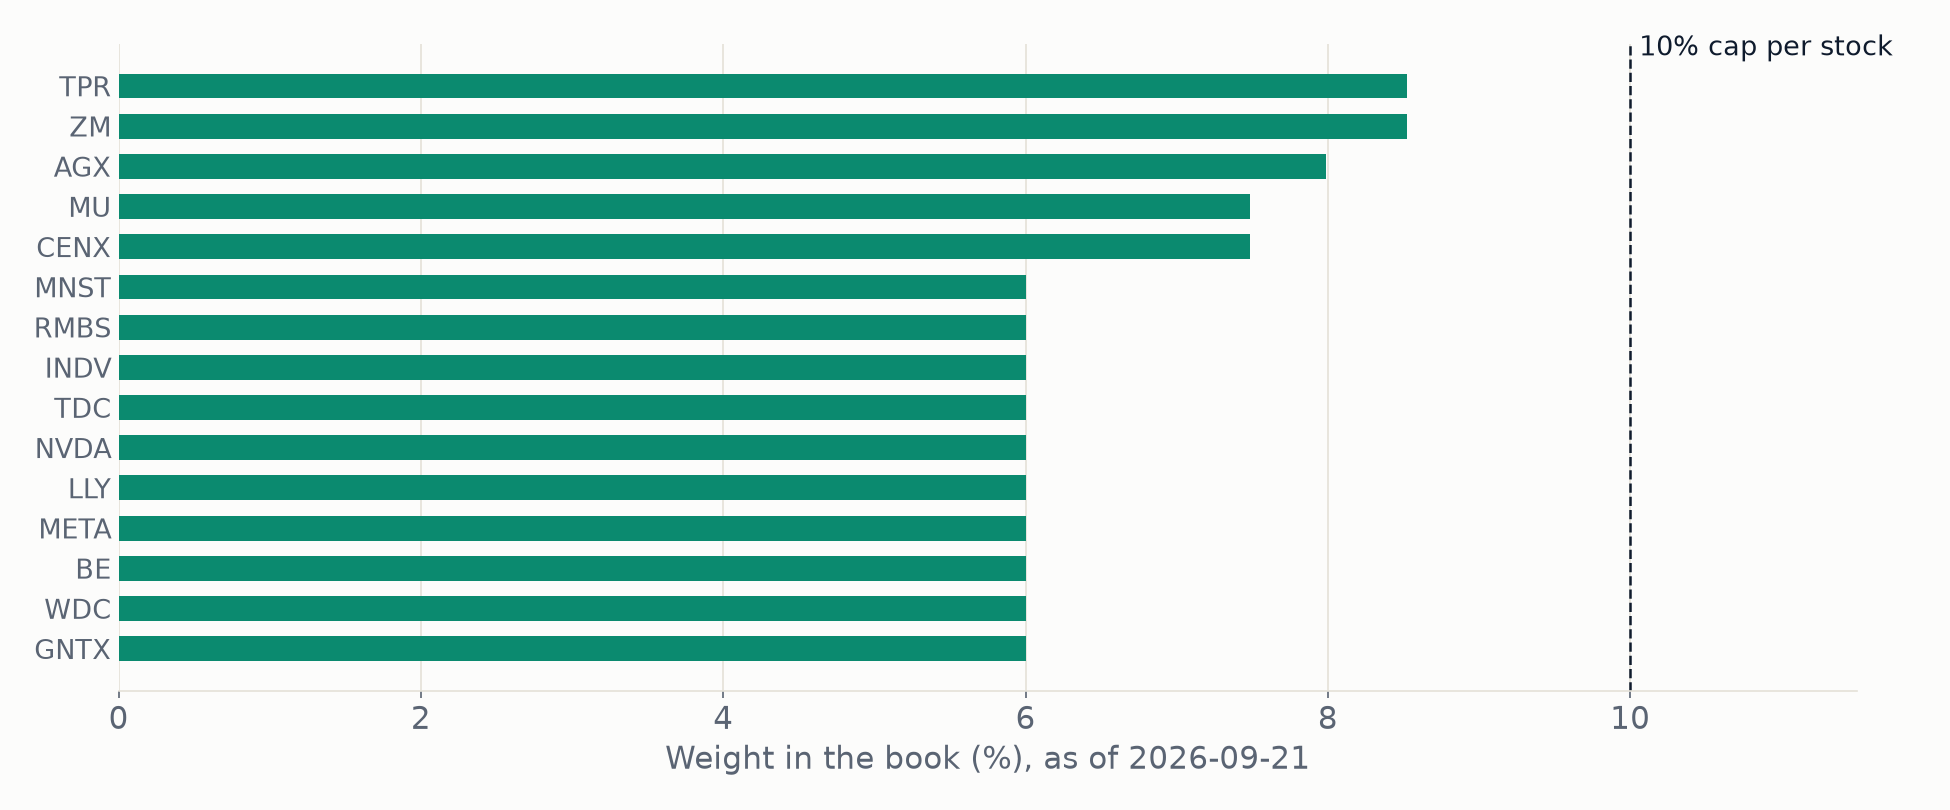
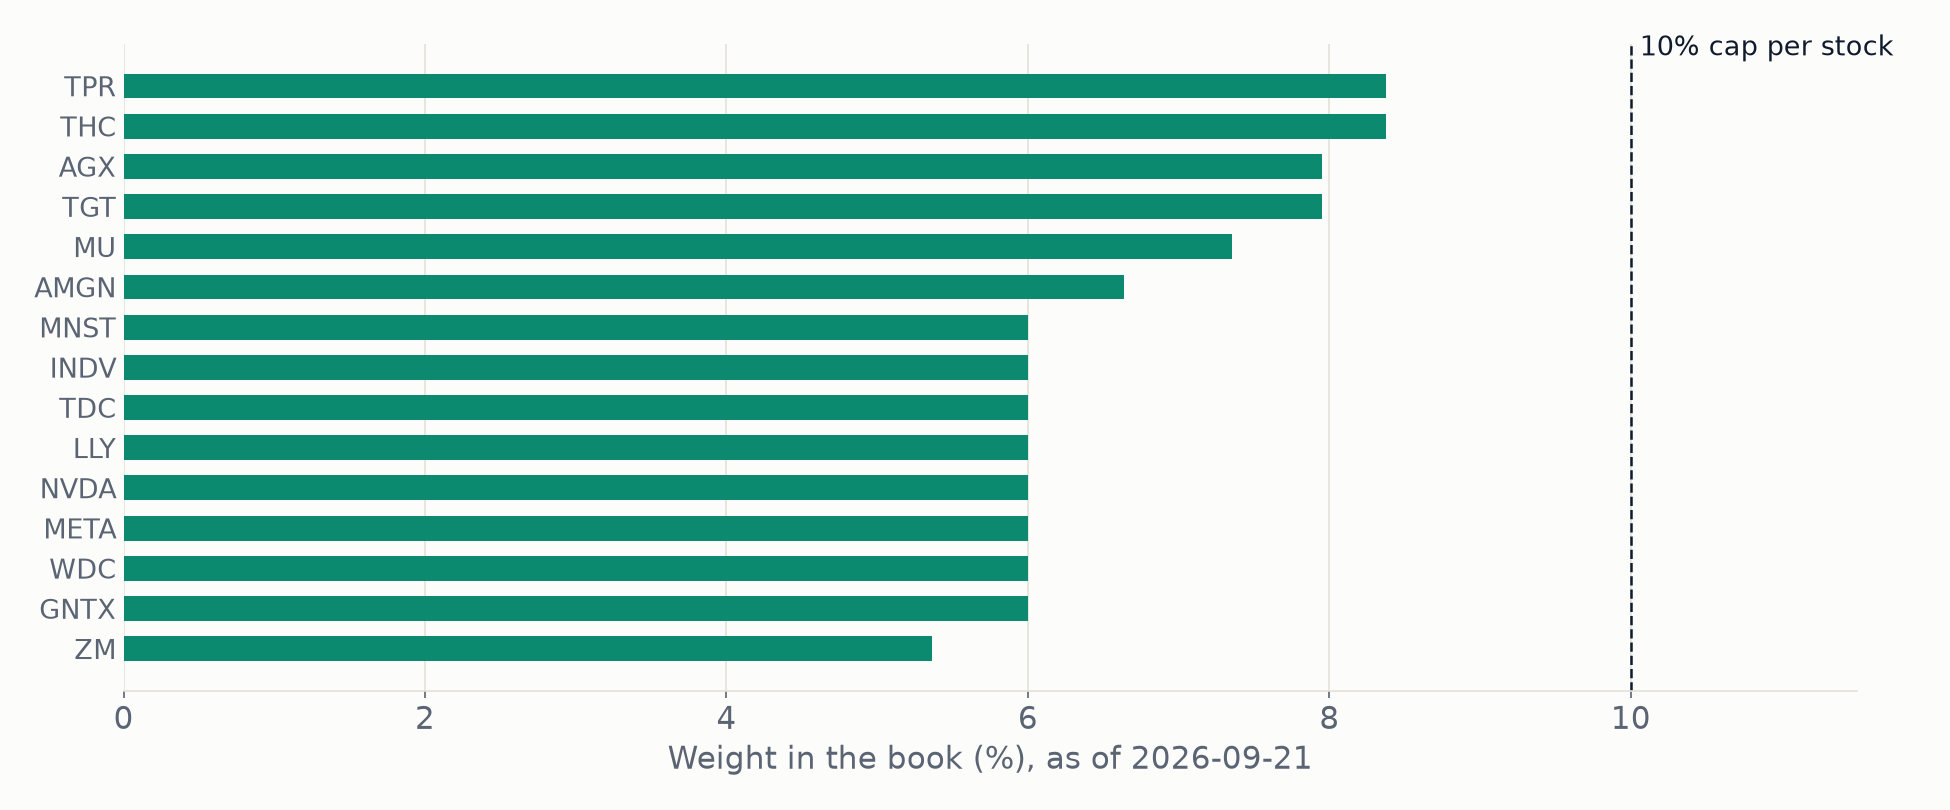
Live book rebuilt under v1.4 (beta cap); docs at v1.4 numbers (15.9% vs 13.0%)
Claude-Session: https://claude.ai/code/session_01LBK97fEdk1jFLcCJnPRrCz

diff --git a/docs/JUDGE_QA.md b/docs/JUDGE_QA.md
@@ -3,7 +3,7 @@
 One or two sentences each, for the Q&A after the pitch. Numbers come from `docs/AUDIT.md` (v1.3, weekly replay, costs included). Headline: Jan 2018 to the data cutoff (Aug 2026). Tests marked "development" ran on Jan 2018 to Feb 2026, before the six held-back months were opened.
 
 **One month is mostly luck. How is this skill?**
-We can't prove skill in one month and don't claim to. We claim a process: published signals, rules fixed before testing, and an eight-and-a-half-year weekly replay that beat the S&P and equal weight after costs (14.9% vs 13.0% and 12.1% a year), 16 of 20 random portfolios run under the same rules, and six held-back months we opened once (+19.7%). In any one month we beat the S&P in about half of past windows (49%). The edge is not statistically proven (alpha +2.5% a year, t = 0.6).
+We can't prove skill in one month and don't claim to. We claim a process: published signals, rules fixed before testing, and an eight-and-a-half-year weekly replay that beat the S&P and equal weight after costs (15.9% vs 13.0% and 12.1% a year for v1.4; 14.9% for v1.3 without the beta cap), 16 of 20 random portfolios run under the same rules, and six held-back months we opened once (+19.7%). In any one month we beat the S&P in about half of past windows (49%). The edge is not statistically proven (alpha +2.5% a year, t = 0.6).
 
 **Did you test it on data it never saw?**
 Yes. We built everything on Jan 2018 to Feb 2026 and kept the last six months untouched. Opened once at the end: +19.7%, Sharpe 1.83, worst drop 7.8%. Six months is short, so it's encouraging, not proof.
@@ -15,7 +15,7 @@ Every decision uses data through the prior close, filings count from the day aft
 About 100 independent months since 2018, and even simple signals can't be told from luck on them, so a flexible model would learn noise. Fixed rules are transparent and give the same answer on every replay.
 
 **What's your market exposure?**
-Beta about 1.0 over the whole backtest; the cash rule lowers it in stress. The book entering the judged month is hotter, about 1.65, because momentum pulled it into chip and memory names (about a quarter of the book). We state that rather than hide it.
+Beta about 1.0 over the whole backtest; the cash rule lowers it in stress. Momentum had pushed the book entering the judged month to about 1.65, so v1.4 caps book beta at 1.2 (now about 1.1). The cap passed its pre-registered rule (return within a point, lower volatility and drawdown) but was tested after the holdout, so its extra point of return is in-sample.
 
 **Why cash instead of puts?**
 SPY and its options aren't in our universe, and puts cost premium every month in a test scored mostly on return. Cash costs nothing and is an explicit line in every portfolio.

diff --git a/CLAUDE.md b/CLAUDE.md
@@ -8,7 +8,7 @@
 ## Adopted plan: v5 + replay fixes (plan text in `docs/nabla_plan_v5.pdf`)
 A regime-aware factor book: five point-in-time factors, rule-based stress and panic flags, a mean-variance optimizer with costs and an equal-weight anchor, entry/exit bands, rebalanced weekly. No options, no RL, no HMM. v5 was written before the replay format; the fixes below override it.
 
-**Shipped so far: v1.3** (`config/model.json`, groups in `config/clusters.json`): four factors (volatility premium weight 0 after the drop-one-factor test), equal-weight top 15 with bands and a 2-point no-trade band, 25% `CASHHOLDING` under the stress flag; panic rule tested and rejected; optimizer not built. Stock groups: consensus clusters refit each January on prior data. Backtest 2018 to Feb 2026 (development): 14.2%/yr vs 12.4% S&P, Sharpe 0.70, max drawdown 33%. Held-back six months (used once): +19.7%, Sharpe 1.83. Full window to the cutoff: 14.9% vs 13.0% S&P, Sharpe 0.73, max drawdown 34%. Results and decisions: `docs/AUDIT.md`; status and to-dos: `docs/HANDOFF.md`.
+**Shipped so far: v1.4** (v1.3 + book beta capped at 1.2: 15.9% vs 13.0% S&P to the cutoff, Sharpe 0.78, max drawdown 33%; chosen after the holdout, on its pre-registered risk rule) (`config/model.json`, groups in `config/clusters.json`): four factors (volatility premium weight 0 after the drop-one-factor test), equal-weight top 15 with bands and a 2-point no-trade band, 25% `CASHHOLDING` under the stress flag; panic rule tested and rejected; optimizer not built. Stock groups: consensus clusters refit each January on prior data. Backtest 2018 to Feb 2026 (development): 14.2%/yr vs 12.4% S&P, Sharpe 0.70, max drawdown 33%. Held-back six months (used once): +19.7%, Sharpe 1.83. Full window to the cutoff: 14.9% vs 13.0% S&P, Sharpe 0.73, max drawdown 34%. Results and decisions: `docs/AUDIT.md`; status and to-dos: `docs/HANDOFF.md`.
 
 ### Organizer answers
 - Output is a **chronological series of target portfolios**, one complete record per decision, generated by the judges **replaying our frozen model through the holdout one step at a time** (proposed format, may still change). Example record fields: `schema_version`, `team_id`, `model_id`, `decision_id`, `information_cutoff` (e.g. 16:00 ET), `decision_time` (16:15), `execution_time` (next open 09:30), `action` ("rebalance"), `target_holdings` [{ticker, weight}]. The example satisfies a 20% per-name cap.

diff --git a/README.md b/README.md
@@ -19,9 +19,9 @@ average and 21-day volatility above its 80th percentile). The volatility premium
 drop-one-factor test; the panic momentum rule was tested and rejected. No optimizer, no
 options.
 
-Backtest, weekly, Jan 2018 to the data cutoff (Aug 2026), costs included: **14.9% a year** vs 13.0%
-for the S&P 500 and 12.1% for the equal-weight liquid universe; Sharpe 0.73 (S&P 0.73); max drawdown
-34% (S&P 34%). The model was built on Jan 2018 to Feb 2026 (14.2% vs 12.4%); the six months after were
+v1.4 adds a cap of 1.2 on the book's market beta. Backtest, weekly, Jan 2018 to the data cutoff (Aug 2026), costs
+included: **15.9% a year** vs 13.0% for the S&P 500 and 12.1% for the equal-weight liquid universe; Sharpe 0.78
+(S&P 0.73); max drawdown 33% (S&P 34%). v1.3 without the cap: 14.9%, Sharpe 0.73. The model was built on Jan 2018 to Feb 2026 (14.2% vs 12.4%); the six months after were
 held back and used once: **+19.7%**, Sharpe 1.83, max drawdown 7.8%. 22 of 24 one-at-a-time setting
 changes still beat the S&P. Survivorship-biased; every result, test and decision is in `docs/AUDIT.md`.
 

diff --git a/docs/HANDOFF.md b/docs/HANDOFF.md
@@ -2,7 +2,7 @@
 
 Read `CLAUDE.md` first (the v5 plan and rules), then this file, then `docs/AUDIT.md` (results and every decision).
 
-## Current state (v1.3, final numbers)
+## Current state (v1.4: v1.3 + beta cap 1.2; 15.9% vs 13.0%, Sharpe 0.78, max drawdown 33%, book beta 1.12. Below: v1.3 numbers)
 
 - **Shipped model v1.3:** four signals (momentum, guidance, quality, value), top 15 equal weight with bands and caps, 25% `CASHHOLDING` under the stress flag, stock groups = consensus clusters refit each January on prior data, frozen in `config/clusters.json`. Live book `config/book.json` rebuilt under v1.3.
 - **Headline (Jan 2018 to the cutoff, Aug 21 2026, costs included):** 14.9%/yr vs 13.0% S&P and 12.1% equal weight; Sharpe 0.73 (S&P 0.73); max drawdown 34% (S&P 34%); $1 to $3.31 (S&P $2.87). Matches `scripts/stress.py`.
